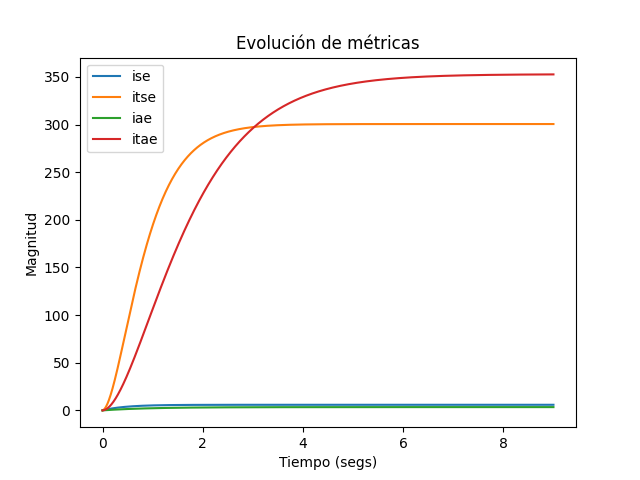
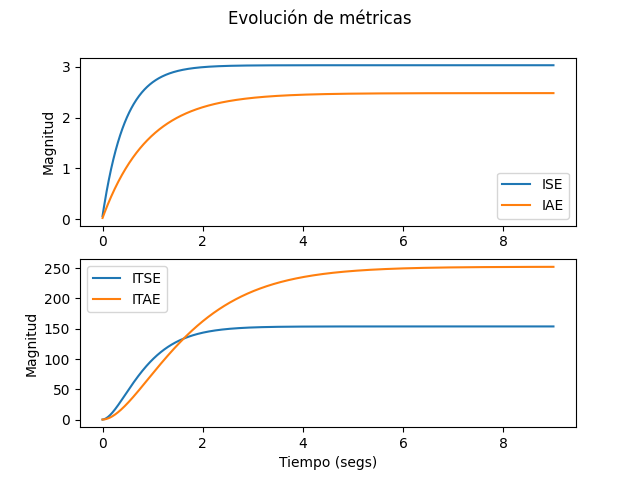
lqi graphs done

diff --git a/main_LQI.py b/main_LQI.py
@@ -1,20 +1,24 @@
-from lib.util import control_de_referencia, gen_tiempo, dif_err_lqi
-from lib.modelo import matrices_completas
+from lib.util import control_de_referencia, gen_tiempo, dif_err_lqi, theta_real
 from lib.lqi import vector_estados, gananciaK, Q_a, R_a
+from lib.modelo import matrices_completas
+import lib.graficos as graphs
+import lib.indices as ind
 import numpy as np
 import glfw
 import gym
 
 # Quieres graficos?
-PLOTING = False
+PLOTING = True
 # Quieres indices?
-INDICES = False
+INDICES = True
 
 
 def main():
     # PARAMS
     Ts = 0.01
-    test_steps = 10000
+    test_steps = 5000
+    if INDICES and PLOTING:
+        test_steps = 1000
     # torques inicial
     torques = np.array([0.0000, 0.000])
     # Genera vector de tiempo
@@ -42,7 +46,7 @@ def main():
 
     for k in range(test_steps):
         # Cambiar seed
-        if k % (test_steps/20) == 0:
+        if k % (test_steps/20) == 0 and not INDICES:
             observation, _ = env.reset(seed=None, return_info=True)
             theta_ref = control_de_referencia(observation)
         # Obtener las matrices completas
@@ -70,8 +74,28 @@ def main():
         # Aplica torque
         observation, reward, _, _ = env.step(torques)
 
+        if PLOTING:
+            # GRAFICOS
+            e_torques_t[k, :] = torques
+            e_x_t[k, :] = err_vector[0:2]
+            theta_ref_t[k, :] = theta_ref
+            theta_real_t[k, :] = theta_real(observation)
+            if INDICES:
+                ise_t[k] = ind.ise(e_x_t)
+                itse_t[k] = ind.itse(e_x_t)
+                iae_t[k] = ind.iae(e_x_t)
+                itae_t[k] = ind.itae(e_x_t)
+
     glfw.terminate()
     env.close()
+
+    if PLOTING:
+        # Generar graficos TODO
+        graphs.grafico_convergencia(t, e_x_t)
+        graphs.grafico_torques(t, e_torques_t)
+        graphs.grafico_estados(t, theta_real_t, theta_ref_t)
+        if INDICES:
+            graphs.grafico_indices(t, ise_t, itse_t, iae_t, itae_t)
 
 
 if __name__ == '__main__':

diff --git a/lib/graficos.py b/lib/graficos.py
@@ -16,14 +16,16 @@ def grafico_convergencia(t: np.array, e_vector: np.array):
 
 def grafico_indices(t: np.array, ise_v: np.array, itse_v: np.array,
                     iae_v: np.array, itae_v: np.array):
-    plt.plot(t, ise_v, label="ise")
-    plt.plot(t, itse_v, label="itse")
-    plt.plot(t, iae_v, label="iae")
-    plt.plot(t, itae_v, label="itae")
-    plt.xlabel("Tiempo (segs)")
-    plt.ylabel("Magnitud")
-    plt.title("Evolución de métricas")
-    plt.legend()
+    fig, axs = plt.subplots(2)
+    fig.suptitle('Evolución de métricas')
+    axs[0].plot(t, ise_v, label="ISE")
+    axs[0].plot(t, iae_v, label="IAE")
+    axs[1].plot(t, itse_v, label="ITSE")
+    axs[1].plot(t, itae_v, label="ITAE")
+    axs[1].set(xlabel='Tiempo (segs)')
+    for ax in axs:
+        ax.set(ylabel="Magnitud")
+        ax.legend()
     plt.show()
 
 
@@ -48,8 +50,9 @@ def grafico_estados(t: np.array, x_vector: np.array, x_ref: np.array):
     axs[0].plot(t, x_ref_v, label="Referencia")
     axs[1].plot(t, y_v, label="Posicion y")
     axs[1].plot(t, y_ref_v, label="Referencia")
+    axs[1].set(xlabel='Tiempo (segs)')
     for ax in axs:
-        ax.set(xlabel='Tiempo (segs)', ylabel='Distancia (mts)')
+        ax.set(ylabel='Distancia (mts)')
         ax.legend()
     plt.show()
 

diff --git a/main_pid.py b/main_pid.py
@@ -7,9 +7,9 @@ import glfw
 import gym
 
 # Quieres graficos? TODO
-PLOTING = False
+PLOTING = True
 # Quieres indices?
-INDICES = False
+INDICES = True
 
 
 def main():
